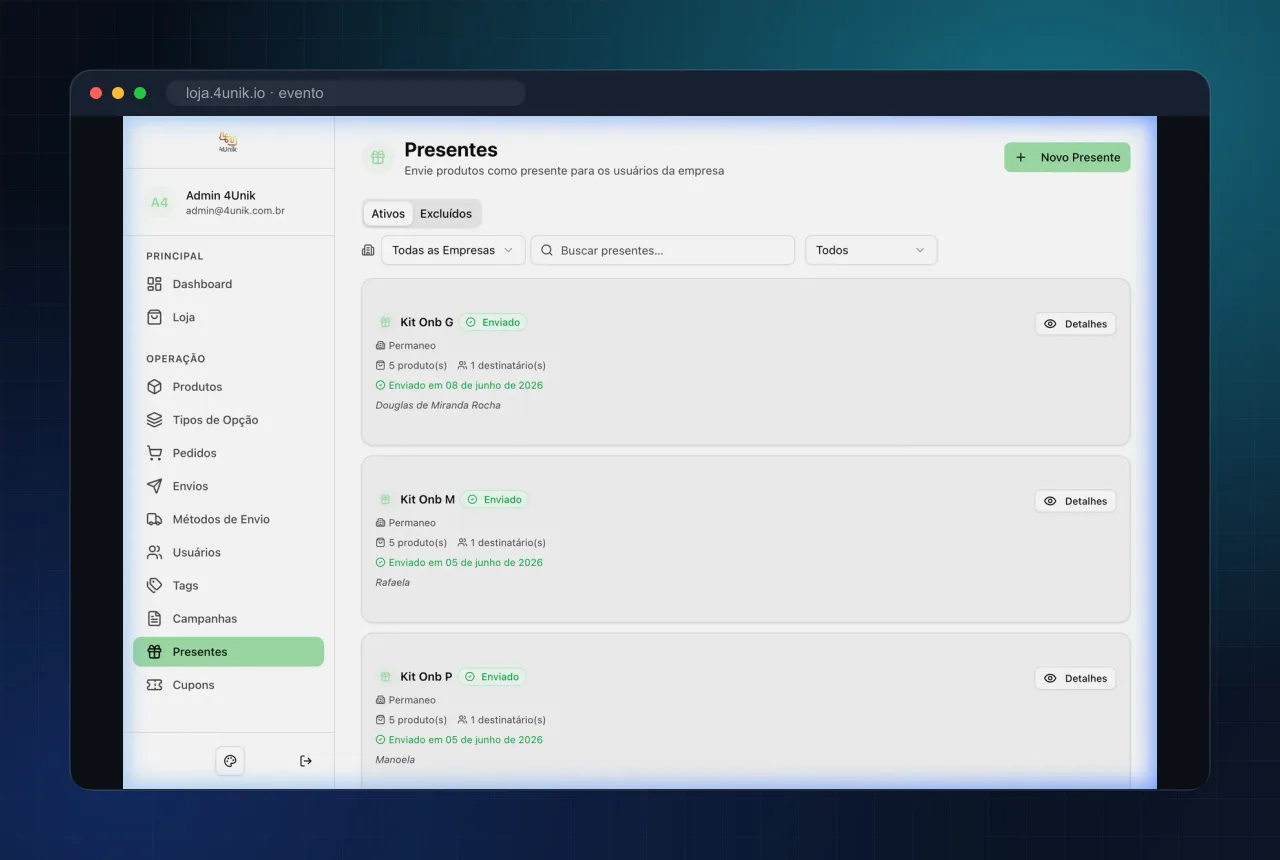
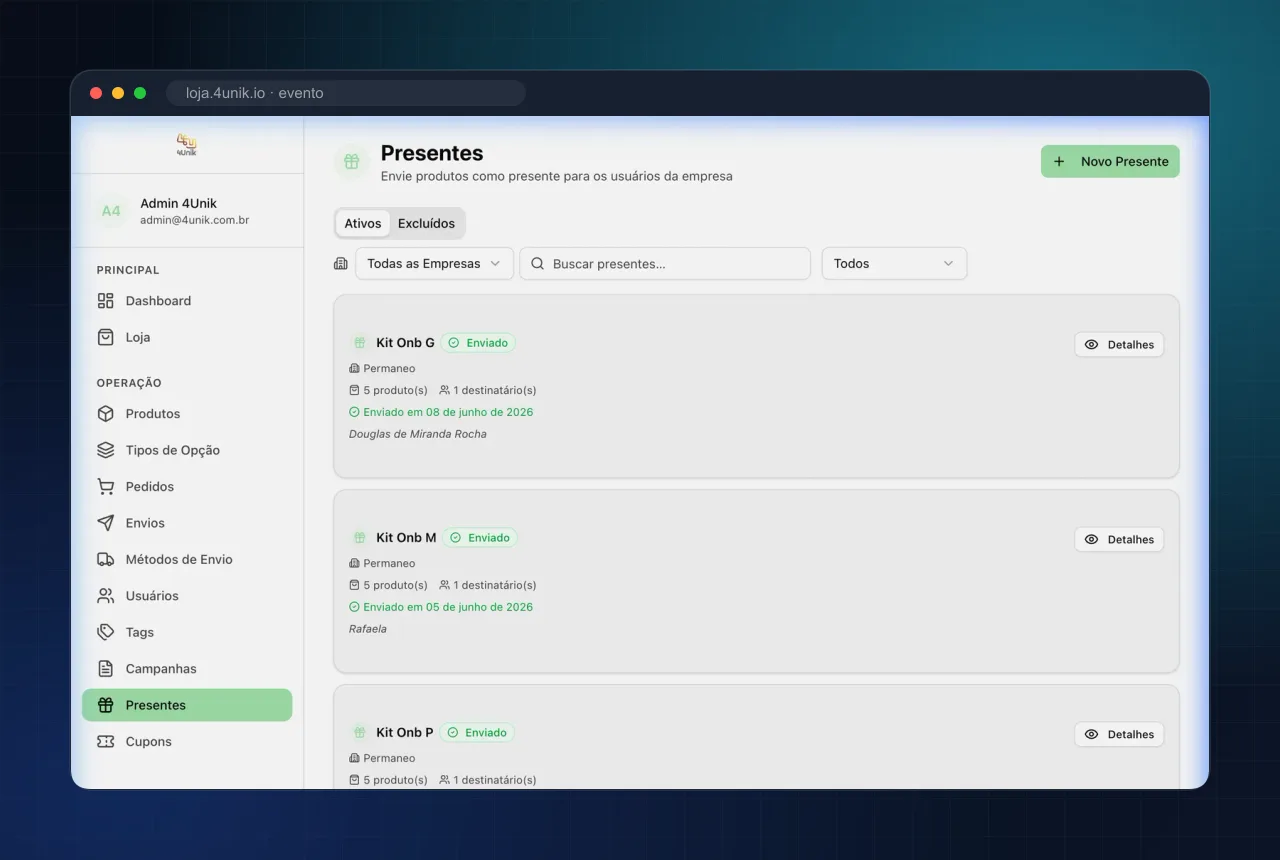
feat(ui): standardize all mockup frames across platform with aspect-16/10 macOS browser chrome and fit cover

diff --git a/src/components/PlataformaHero.tsx b/src/components/PlataformaHero.tsx
@@ -23,18 +23,18 @@ export default function PlataformaHero() {
         initial={{ opacity: 0, x: -60, y: 20 }}
         animate={{ opacity: 1, x: 0, y: 0 }}
         transition={{ delay: 0.6, duration: 0.9, type: "spring" }}
-        className="absolute left-[2%] top-[28%] hidden w-[240px] overflow-hidden rounded-2xl border border-white/12 shadow-[0_20px_60px_rgba(0,0,0,0.55)] xl:block"
+        className="absolute left-[2%] top-[25%] hidden w-[240px] overflow-hidden rounded-2xl border border-white/12 bg-slate-950 shadow-[0_25px_70px_rgba(0,0,0,0.6)] xl:block"
         style={{ animation: "float 9s ease-in-out infinite 0.5s" }}
       >
-        <div className="flex items-center gap-1.5 border-b border-white/10 bg-gray-900/95 px-3 py-2">
-          <span className="h-2 w-2 rounded-full bg-red-500/70" />
-          <span className="h-2 w-2 rounded-full bg-yellow-500/70" />
-          <span className="h-2 w-2 rounded-full bg-green-500/70" />
-          <span className="ml-1.5 font-mono text-[0.52rem] tracking-wider text-white/30">
+        <div className="flex items-center gap-1.5 border-b border-white/10 bg-slate-900/95 px-3 py-2">
+          <span className="h-2 w-2 rounded-full bg-red-500/80" />
+          <span className="h-2 w-2 rounded-full bg-yellow-500/80" />
+          <span className="h-2 w-2 rounded-full bg-green-500/80" />
+          <span className="ml-1.5 font-mono text-[0.52rem] tracking-wider text-white/40">
             gestor.4unik.io
           </span>
         </div>
-        <div className="relative overflow-hidden bg-gray-900" style={{ aspectRatio: "4/3" }}>
+        <div className="relative overflow-hidden bg-slate-900" style={{ aspectRatio: "16/10" }}>
           <Image
             src={withBasePath("/screens/admin-dashboard.webp")}
             alt={h.titleLine1}
@@ -44,7 +44,7 @@ export default function PlataformaHero() {
             priority
           />
         </div>
-        <div className="flex items-center justify-between bg-surface-section/95 px-3 py-1.5">
+        <div className="flex items-center justify-between bg-slate-900/95 px-3 py-1.5 border-t border-white/10">
           <span className="text-[0.55rem] font-semibold text-brand-orange">Dashboard</span>
           <span className="rounded-full border border-brand-orange/30 bg-brand-orange/15 px-2 py-0.5 text-[0.5rem] font-bold uppercase tracking-widest text-brand-orange">
             Ao vivo
@@ -57,27 +57,27 @@ export default function PlataformaHero() {
         initial={{ opacity: 0, x: 60, y: 20 }}
         animate={{ opacity: 1, x: 0, y: 0 }}
         transition={{ delay: 0.85, duration: 0.9, type: "spring" }}
-        className="absolute right-[2%] top-[22%] hidden w-[220px] overflow-hidden rounded-2xl border border-white/12 shadow-[0_20px_60px_rgba(0,0,0,0.55)] xl:block"
+        className="absolute right-[2%] top-[25%] hidden w-[240px] overflow-hidden rounded-2xl border border-white/12 bg-slate-950 shadow-[0_25px_70px_rgba(0,0,0,0.6)] xl:block"
         style={{ animation: "float 11s ease-in-out infinite 1.5s" }}
       >
-        <div className="flex items-center gap-1.5 border-b border-white/10 bg-gray-900/95 px-3 py-2">
-          <span className="h-2 w-2 rounded-full bg-red-500/70" />
-          <span className="h-2 w-2 rounded-full bg-yellow-500/70" />
-          <span className="h-2 w-2 rounded-full bg-green-500/70" />
-          <span className="ml-1.5 font-mono text-[0.52rem] tracking-wider text-white/30">
-            Campanha
+        <div className="flex items-center gap-1.5 border-b border-white/10 bg-slate-900/95 px-3 py-2">
+          <span className="h-2 w-2 rounded-full bg-red-500/80" />
+          <span className="h-2 w-2 rounded-full bg-yellow-500/80" />
+          <span className="h-2 w-2 rounded-full bg-green-500/80" />
+          <span className="ml-1.5 font-mono text-[0.52rem] tracking-wider text-white/40">
+            gestor.4unik.io · Editor
           </span>
         </div>
-        <div className="relative overflow-hidden bg-gray-900" style={{ aspectRatio: "4/3" }}>
+        <div className="relative overflow-hidden bg-slate-900" style={{ aspectRatio: "16/10" }}>
           <Image
             src={withBasePath("/screens/admin-campaign-identity.webp")}
             alt={h.titleGradient}
             fill
             className="object-cover object-top"
-            sizes="220px"
+            sizes="240px"
           />
         </div>
-        <div className="flex items-center justify-between bg-surface-section/95 px-3 py-1.5">
+        <div className="flex items-center justify-between bg-slate-900/95 px-3 py-1.5 border-t border-white/10">
           <span className="text-[0.55rem] font-semibold text-unik-blue-soft">
             Editor
           </span>

diff --git a/src/components/PlataformaStore.tsx b/src/components/PlataformaStore.tsx
@@ -75,24 +75,32 @@ export default function PlataformaStore({
               className="relative rounded-3xl overflow-hidden bg-surface-mid border border-white/10 shadow-2xl"
             >
               {storeMockupImageUrl ? (
-                <div className="relative aspect-5/4 w-full overflow-hidden">
-                  <Image
-                    src={storeMockupImageUrl}
-                    alt={
-                      showcaseMedia?.storeMockupImage?.alt?.trim() ||
-                      s.badge ||
-                      "Mockup da loja de recompensas"
-                    }
-                    fill
-                    sizes="(min-width: 1024px) 50vw, 100vw"
-                    className="object-contain"
-                    unoptimized
-                  />
+                <div className="relative aspect-16/10 w-full overflow-hidden bg-slate-950">
+                  <div className="flex items-center justify-between border-b border-white/10 bg-slate-900/90 px-4 py-2">
+                    <div className="flex items-center gap-1.5">
+                      <span className="h-2 w-2 rounded-full bg-red-500/80" />
+                      <span className="h-2 w-2 rounded-full bg-yellow-500/80" />
+                      <span className="h-2 w-2 rounded-full bg-green-500/80" />
+                    </div>
+                    <span className="font-mono text-[0.6rem] text-white/45 tracking-wider">loja.4unik.io</span>
+                  </div>
+                  <div className="relative h-[calc(100%-32px)] w-full">
+                    <Image
+                      src={storeMockupImageUrl}
+                      alt={
+                        showcaseMedia?.storeMockupImage?.alt?.trim() ||
+                        s.badge ||
+                        "Mockup da loja de recompensas"
+                      }
+                      fill
+                      sizes="(min-width: 1024px) 50vw, 100vw"
+                      className="object-cover object-top"
+                      unoptimized
+                    />
+                  </div>
                 </div>
               ) : (
-                <div className="p-4">
-                  <FeatureScreensCarousel variant="member" intervalMs={4000} />
-                </div>
+                <FeatureScreensCarousel variant="member" intervalMs={4000} />
               )}
             </motion.div>
           </div>

diff --git a/src/components/AiFeatureMockups.tsx b/src/components/AiFeatureMockups.tsx
@@ -84,17 +84,36 @@ export default function AiFeatureMockups() {
           </button>
         </div>
 
-        {/* Screenshot da plataforma (por aba) */}
-        <div className="relative mx-auto max-w-5xl overflow-hidden rounded-2xl border border-white/10 bg-[#0b0e14] shadow-2xl" style={{ aspectRatio: "16 / 10" }}>
-          <Image
-            key={shot.src}
-            src={withBasePath(shot.src)}
-            alt={shot.alt}
-            fill
-            className="object-contain object-top"
-            sizes="(min-width: 1024px) 80vw, 100vw"
-            priority={activeTab === "campaign"}
-          />
+        {/* Screenshot da plataforma (por aba) com browser chrome */}
+        <div className="relative mx-auto max-w-5xl overflow-hidden rounded-2xl border border-white/12 bg-slate-950 shadow-2xl">
+          {/* Top browser bar */}
+          <div className="flex items-center justify-between border-b border-white/10 bg-slate-900 px-4 py-3">
+            <div className="flex items-center gap-1.5">
+              <div className="h-2.5 w-2.5 rounded-full bg-red-500/80" />
+              <div className="h-2.5 w-2.5 rounded-full bg-yellow-500/80" />
+              <div className="h-2.5 w-2.5 rounded-full bg-green-500/80" />
+            </div>
+            <div className="flex items-center gap-2 rounded-full bg-white/6 px-3 py-1">
+              <span className="h-1.5 w-1.5 rounded-full bg-yoobe-purple animate-pulse" />
+              <span className="font-mono text-[0.6rem] text-white/50 tracking-wider">
+                gestor.4unik.io · AI Orquestração
+              </span>
+            </div>
+            <span className="rounded-full border border-yoobe-purple/30 bg-yoobe-purple/10 px-2 py-0.5 font-mono text-[0.58rem] font-bold uppercase tracking-widest text-yoobe-purple">
+              IA Ativa
+            </span>
+          </div>
+          <div className="relative w-full bg-slate-900" style={{ aspectRatio: "16 / 10" }}>
+            <Image
+              key={shot.src}
+              src={withBasePath(shot.src)}
+              alt={shot.alt}
+              fill
+              className="object-cover object-top"
+              sizes="(min-width: 1024px) 80vw, 100vw"
+              priority={activeTab === "campaign"}
+            />
+          </div>
         </div>
       </div>
     </section>

diff --git a/src/components/SecurityEnterprise.tsx b/src/components/SecurityEnterprise.tsx
@@ -36,19 +36,29 @@ export default function SecurityEnterprise({
             </div>
 
             <div className="md:w-1/2 flex flex-col gap-4 w-full relative z-10">
-              <div className="relative aspect-4/3 w-full overflow-hidden rounded-2xl border border-white/10 bg-surface-mid">
-                <Image
-                  src={securityPanelImageUrl}
-                  alt={
-                    showcaseMedia?.securityPanelImage?.alt?.trim() ||
-                    sec.title ||
-                    "Painel visual da segurança enterprise"
-                  }
-                  fill
-                  sizes="(min-width: 768px) 50vw, 100vw"
-                  className="object-contain"
-                  unoptimized
-                />
+              <div className="relative aspect-16/10 w-full overflow-hidden rounded-2xl border border-white/12 bg-slate-950 shadow-xl">
+                <div className="flex items-center justify-between border-b border-white/10 bg-slate-900 px-3 py-1.5 z-10 relative">
+                  <div className="flex items-center gap-1">
+                    <span className="h-1.5 w-1.5 rounded-full bg-red-500/80" />
+                    <span className="h-1.5 w-1.5 rounded-full bg-yellow-500/80" />
+                    <span className="h-1.5 w-1.5 rounded-full bg-green-500/80" />
+                  </div>
+                  <span className="font-mono text-[0.52rem] text-white/45 tracking-wider">gestor.4unik.io · segurança</span>
+                </div>
+                <div className="relative h-[calc(100%-24px)] w-full bg-slate-900">
+                  <Image
+                    src={securityPanelImageUrl}
+                    alt={
+                      showcaseMedia?.securityPanelImage?.alt?.trim() ||
+                      sec.title ||
+                      "Painel visual da segurança enterprise"
+                    }
+                    fill
+                    sizes="(min-width: 768px) 50vw, 100vw"
+                    className="object-cover object-top"
+                    unoptimized
+                  />
+                </div>
               </div>
 
               {sec.items.map((item, i) => {

diff --git a/src/components/LogisticsFulfillment.tsx b/src/components/LogisticsFulfillment.tsx
@@ -31,9 +31,24 @@ export default function LogisticsFulfillment({
           initial={{ opacity: 0, y: 24 }}
           whileInView={{ opacity: 1, y: 0 }}
           viewport={{ once: true }}
-          className="relative mb-10 overflow-hidden rounded-[2rem] border border-brand-navy/10 bg-[#0b0e14] shadow-2xl"
+          className="relative mb-10 overflow-hidden rounded-[2rem] border border-brand-navy/12 bg-slate-950 shadow-2xl"
         >
-          <div className="relative aspect-16/7 w-full">
+          {/* Browser chrome header */}
+          <div className="flex items-center justify-between border-b border-white/10 bg-slate-900 px-5 py-3">
+            <div className="flex items-center gap-1.5">
+              <div className="h-2.5 w-2.5 rounded-full bg-red-500/80" />
+              <div className="h-2.5 w-2.5 rounded-full bg-yellow-500/80" />
+              <div className="h-2.5 w-2.5 rounded-full bg-green-500/80" />
+            </div>
+            <div className="flex items-center gap-2 rounded-full bg-white/6 px-3 py-1">
+              <span className="h-1.5 w-1.5 rounded-full bg-brand-orange animate-pulse" />
+              <span className="font-mono text-[0.6rem] text-white/50 tracking-wider">gestor.4unik.io · envios</span>
+            </div>
+            <span className="rounded-full border border-brand-orange/30 bg-brand-orange/10 px-2 py-0.5 font-mono text-[0.58rem] font-bold uppercase tracking-widest text-brand-orange">
+              Rastreamento
+            </span>
+          </div>
+          <div className="relative aspect-16/9 w-full bg-slate-900">
             <Image
               src={logisticsPanelImageUrl}
               alt={
@@ -42,7 +57,7 @@ export default function LogisticsFulfillment({
               }
               fill
               sizes="100vw"
-              className="object-contain object-top"
+              className="object-cover object-top"
               unoptimized
             />
           </div>

diff --git a/src/components/BentoFeatures.tsx b/src/components/BentoFeatures.tsx
@@ -14,9 +14,20 @@ import type { ReactNode } from "react";
 function BentoMediaFrame({ children, className = "" }: { children: ReactNode; className?: string }) {
   return (
     <div
-      className={`relative mt-6 aspect-4/3 w-full shrink-0 overflow-hidden rounded-2xl border border-white/10 bg-brand-charcoal/80 shadow-lg ${className}`}
+      className={`relative mt-6 aspect-16/10 w-full shrink-0 overflow-hidden rounded-2xl border border-white/12 bg-slate-950 shadow-xl ${className}`}
     >
-      {children}
+      {/* Browser chrome header */}
+      <div className="flex items-center justify-between border-b border-white/10 bg-slate-900/90 px-3 py-1.5 relative z-10">
+        <div className="flex items-center gap-1">
+          <span className="h-1.5 w-1.5 rounded-full bg-red-500/80" />
+          <span className="h-1.5 w-1.5 rounded-full bg-yellow-500/80" />
+          <span className="h-1.5 w-1.5 rounded-full bg-green-500/80" />
+        </div>
+        <span className="font-mono text-[0.52rem] text-white/45 tracking-wider">gestor.4unik.io</span>
+      </div>
+      <div className="relative h-[calc(100%-24px)] w-full">
+        {children}
+      </div>
     </div>
   );
 }

diff --git a/src/components/FeatureScreensCarousel.tsx b/src/components/FeatureScreensCarousel.tsx
@@ -287,7 +287,7 @@ export default function FeatureScreensCarousel({
         {/* Screen area */}
         <div
           className={`relative ${isLight ? "bg-slate-50" : "bg-gray-900"}`}
-          style={{ aspectRatio: "16/11" }}
+          style={{ aspectRatio: "16/10" }}
         >
           <AnimatePresence mode="wait">
             <motion.div
@@ -302,7 +302,7 @@ export default function FeatureScreensCarousel({
                 src={screen.src}
                 alt={screen.alt ?? screen.label}
                 sizes="(min-width: 1024px) 50vw, 100vw"
-                imgClassName="object-contain object-top"
+                imgClassName="object-cover object-top"
                 className="absolute inset-0 h-full w-full"
                 priority={active === 0}
               />

diff --git a/src/components/PlatformFlowsShowcase.tsx b/src/components/PlatformFlowsShowcase.tsx
@@ -399,7 +399,7 @@ export default function PlatformFlowsShowcase({ locale = "pt" }: Props) {
                         src={step.img}
                         alt={step.title}
                         sizes="(min-width: 1024px) 55vw, 100vw"
-                        imgClassName="object-contain object-top"
+                        imgClassName="object-cover object-top"
                         className="absolute inset-0 h-full w-full"
                         unoptimized
                       />

diff --git a/src/components/CampaignBuilderShowcase.tsx b/src/components/CampaignBuilderShowcase.tsx
@@ -278,7 +278,7 @@ export default function CampaignBuilderShowcase() {
                       src={step.img}
                       alt={step.title}
                       sizes="(min-width: 1024px) 55vw, 100vw"
-                      imgClassName="object-contain object-top"
+                      imgClassName="object-cover object-top"
                       className="absolute inset-0 h-full w-full"
                       unoptimized
                     />

diff --git a/src/components/DashboardPreviewSection.tsx b/src/components/DashboardPreviewSection.tsx
@@ -182,7 +182,7 @@ export default function DashboardPreviewSection() {
                 src="/screens/dash/dashboard-geral.webp"
                 alt="Dashboard do gestor 4unik"
                 sizes="(min-width: 1024px) 70vw, 100vw"
-                imgClassName="object-contain object-top"
+                imgClassName="object-cover object-top"
                 className="absolute inset-0 h-full w-full"
                 unoptimized
               />
